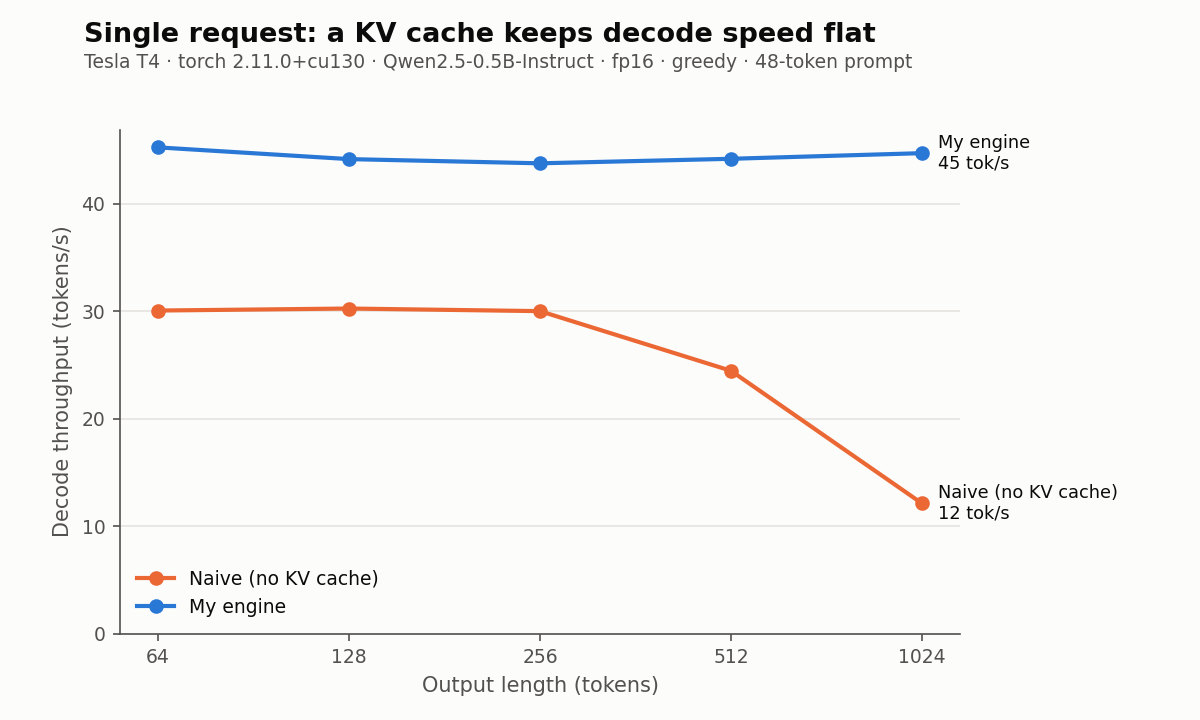
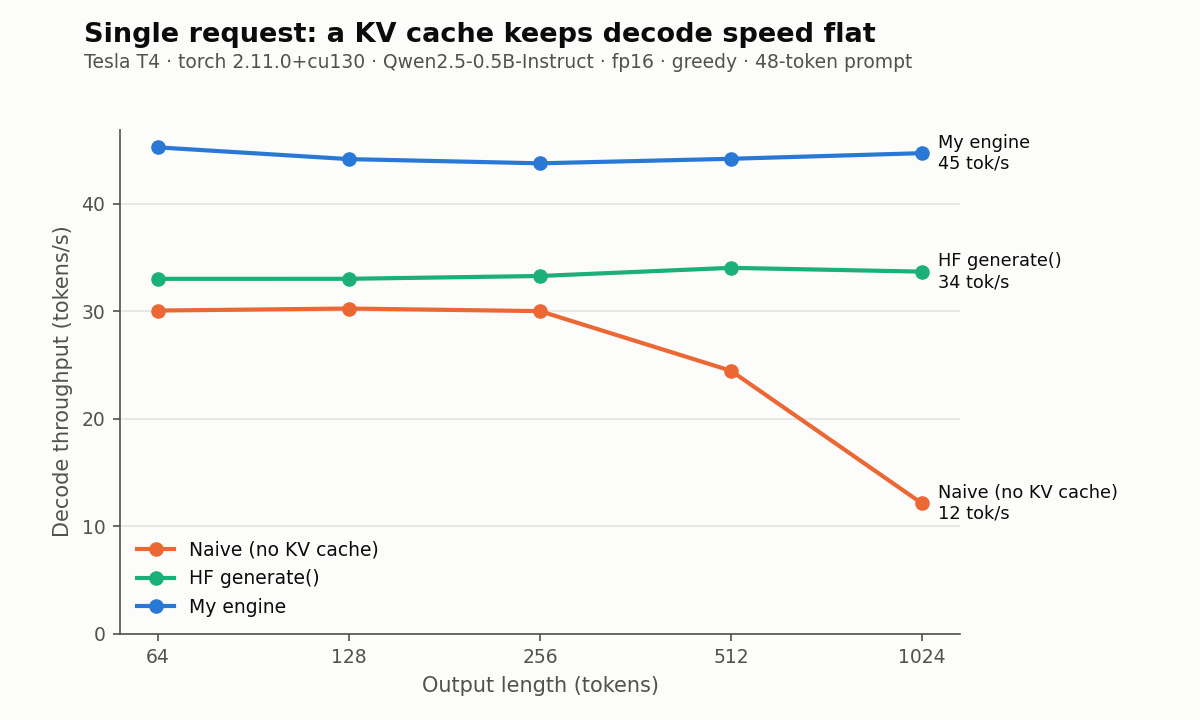
stage 2: own Qwen2 model with KV cache, parity tests passing on T4, chart 1

Changed region(s): [[0.1233, 0.3361, 0.8942, 0.3972], [0.1233, 0.7333, 0.3083, 0.825]]

diff --git a/benchmarks/plot.py b/benchmarks/plot.py
@@ -27,7 +27,7 @@ GRID = "#e4e3df"
 BACKEND_STYLE = {
     "engine": ("#2a78d6", "My engine"),
     "naive": ("#eb6834", "Naive (no KV cache)"),
-    "hf": ("#1baf7a", "Hugging Face"),
+    "hf": ("#1baf7a", "HF generate()"),
     "vllm": ("#eda100", "vLLM"),
 }
 

diff --git a/README.md b/README.md
@@ -13,12 +13,30 @@ batching, all running on a single Colab T4 GPU.
 | Stage | What | Status |
 |---|---|---|
 | 0 | Repo skeleton, Colab notebook, GPU + model check | done |
-| 1 | Naive baseline (no cache) | |
-| 2 | Own Qwen2 model + single-sequence KV cache | |
+| 1 | Naive baseline (no cache) | done |
+| 2 | Own Qwen2 model + single-sequence KV cache | done |
 | 3 | Slot-based KV cache + static batching | |
 | 4 | Scheduler + continuous batching | |
 | 5 | Benchmarks vs baselines and vLLM | |
 | 6 | Extras: streaming API, paged KV cache | |
+
+## Results so far
+
+![Single-request decode speed](benchmarks/results/chart1_single_request.png)
+
+Single request, Qwen2.5-0.5B-Instruct, fp16, greedy, Tesla T4 (Colab):
+
+| Output tokens | Naive (no cache) | HF `generate()` | My engine (KV cache) |
+|---:|---:|---:|---:|
+| 64 | 30.1 tok/s | 33.0 tok/s | 45.2 tok/s |
+| 256 | 30.0 tok/s | 33.3 tok/s | 43.8 tok/s |
+| 1024 | 12.1 tok/s | 33.7 tok/s | 44.7 tok/s |
+
+Parity: my model's float32 logits are bit-identical to Hugging Face's on CPU
+and within 1e-3 on the GPU. In float16, greedy output matches HF `generate()`
+for 50 tokens on 4 of 5 prompts; the fifth matches for 40 tokens and then
+hits an exact fp16 tie between the top two tokens (see
+`tests/test_model_parity.py` for how ties are verified).
 
 ## Run it
 
